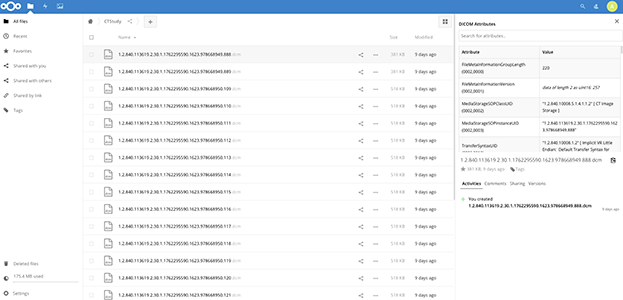
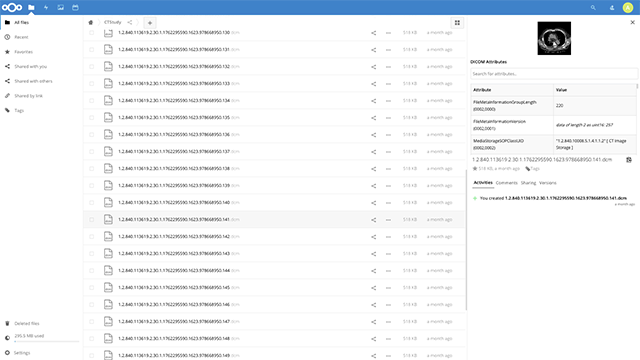
Bump to version 1.0.0 and update screenshots

diff --git a/README.md b/README.md
@@ -2,7 +2,7 @@
 
 # DICOM Viewer
 
-It is a DICOM viewer which uses [cornerstonejs](https://github.com/cornerstonejs) library to display DICOM files on Nextcloud.
+It is a DICOM viewer which uses [cornerstonejs](https://github.com/cornerstonejs) library to display DICOM files in Nextcloud.
 
 For more information, see the blog post [Nextcloud in Digital Imaging](https://nextcloud.com/blog/digital-imaging-for-medicine-in-nextcloud/)
 
@@ -17,8 +17,8 @@ For more information, see the blog post [Nextcloud in Digital Imaging](https://n
 
 ### Features
 
-* **Viewer:** A DICOM viewer with basic imaging tools
-* **DICOM Dump:** A list of DICOM attributes displayed on the sidebar
+* **Viewer:** A DICOM viewer which displays images grouped by study and series in selected folders and allows to manipulate images with imaging tools
+* **DICOM Dump:** A list of DICOM attributes displayed on the sidebar with image thumbnail
 
 
 ### Installation
